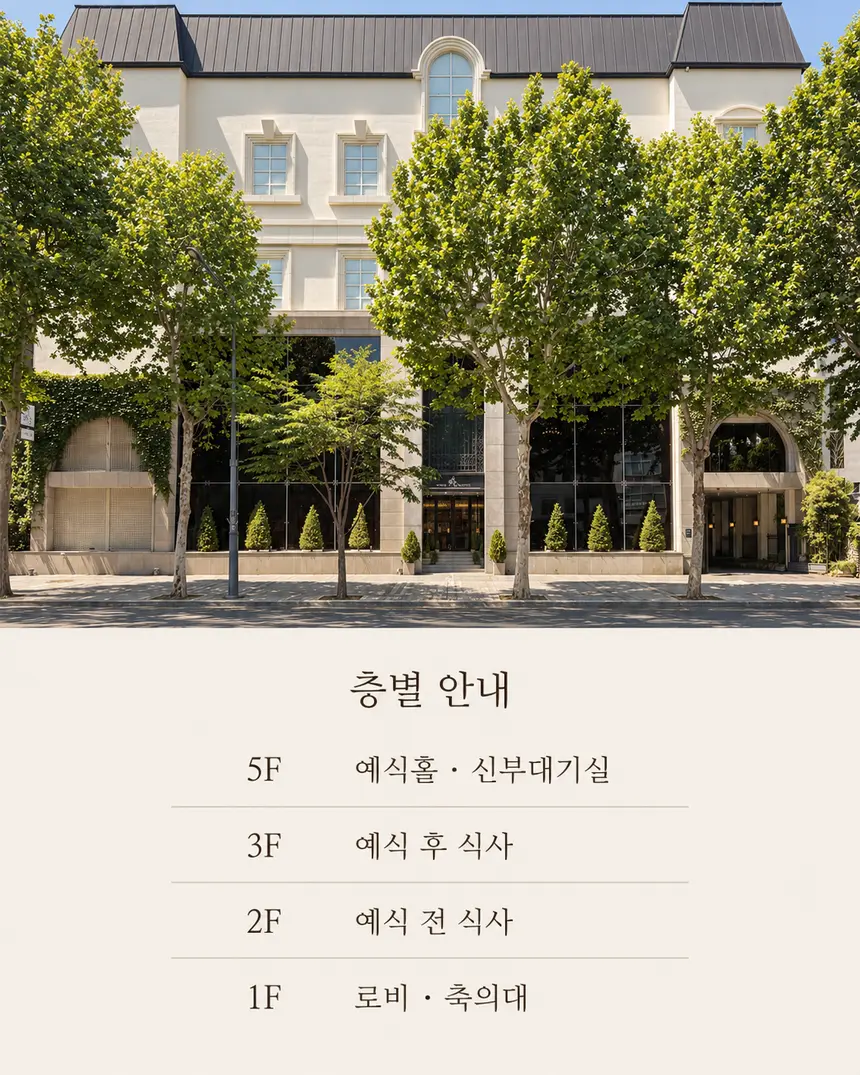
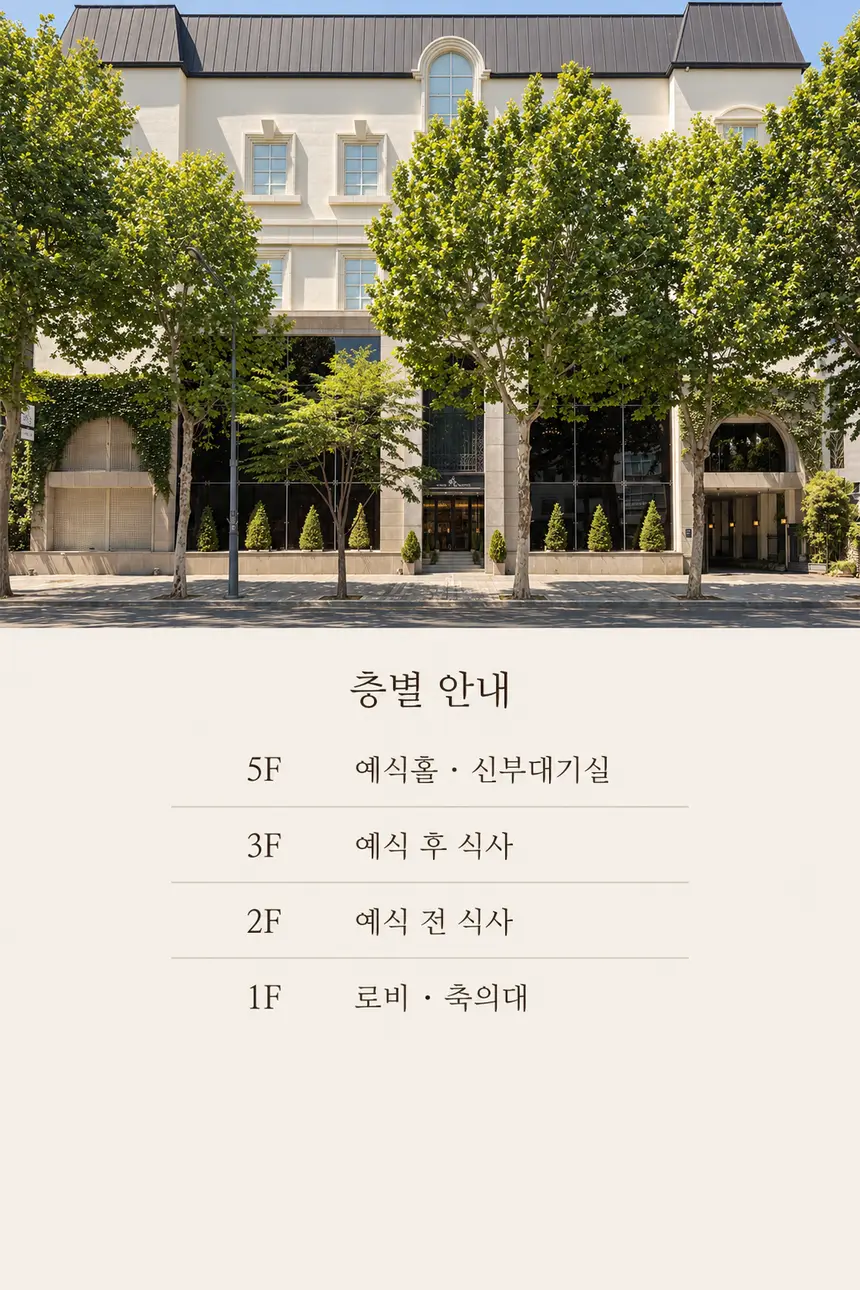
안내사항 두 카드의 높이를 맞춤
층별 안내는 0.80, 메뉴는 0.67 비율이라 나란히 두면 높이가 어긋났다.
잘라서 맞추면 글자가 날아가므로, 층별 안내 아래를 제 배경색(#f5efe8)으로
215px 늘려 메뉴와 같은 2:3 으로 만든다. 아래가 이미 평평한 크림색이라
이어 붙인 티가 나지 않는다.

CSS 에도 2:3 을 못 박고 남는 자리를 같은 크림으로 메우게 했다. 나중에
비율이 다른 그림으로 바꿔도 줄이 틀어지지 않는다.

diff --git a/css/style.css b/css/style.css
@@ -785,7 +785,15 @@ h1, h2 { margin: 0; font-weight: 400; }
   background: none;
   cursor: zoom-in;
 }
-.notice__shot img { display: block; width: 100%; height: auto; }
+/* 카드 높이를 2:3 으로 못 박는다. 비율이 다른 그림으로 바꿔도 줄이 틀어지지
+   않고, 남는 자리는 그림들의 크림색과 같은 바탕으로 메워져 티가 안 난다. */
+.notice__item--shot { background: #f5efe8; }
+.notice__shot img {
+  display: block;
+  width: 100%;
+  aspect-ratio: 2 / 3;
+  object-fit: contain;
+}
 
 /* 눌러서 크게 볼 수 있다는 안내 */
 .notice__hint {
